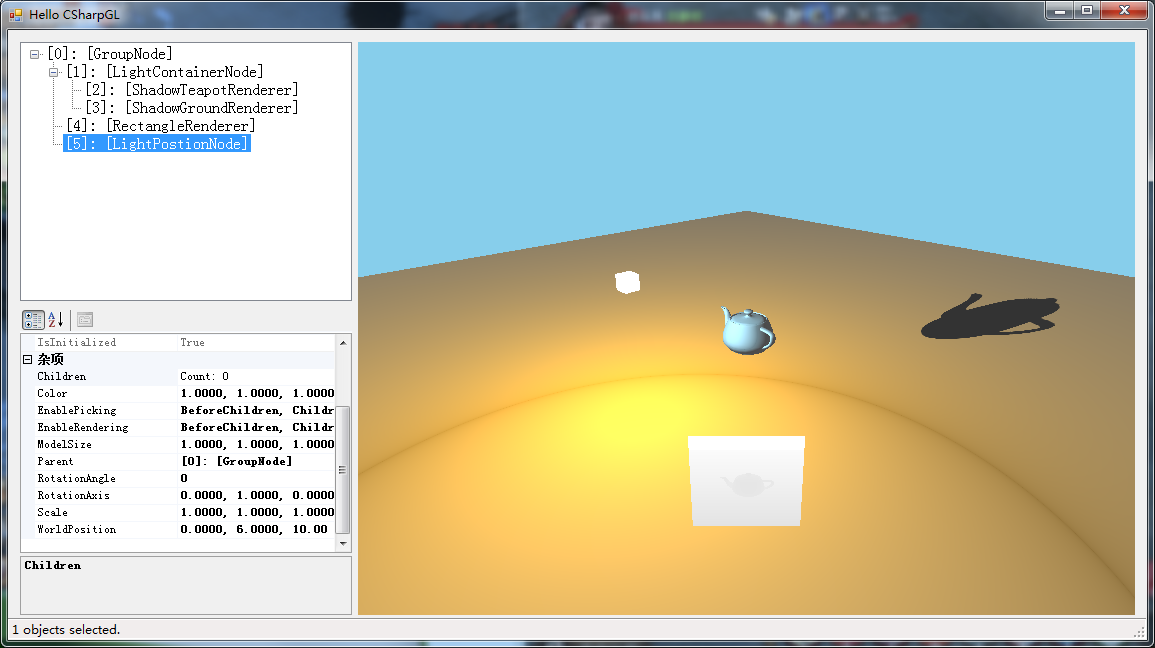
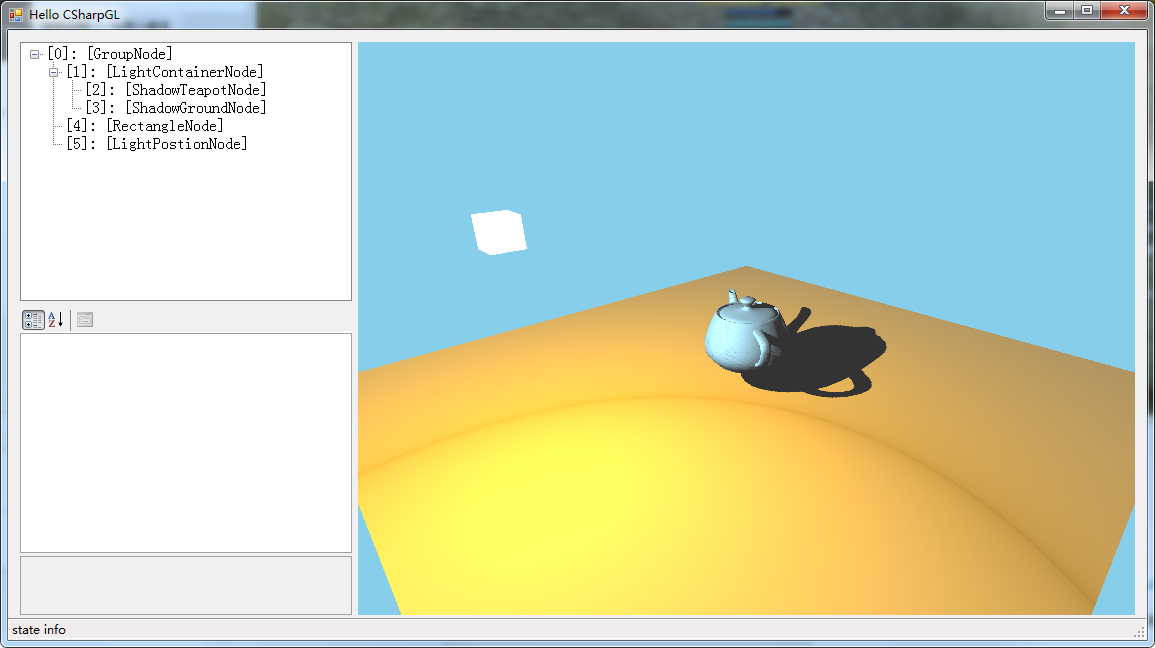
update

diff --git a/Demos/ShadowMapping/FormShadowMapping.cs b/Demos/ShadowMapping/FormShadowMapping.cs
@@ -30,7 +30,7 @@ namespace ShadowMapping
             //var teapot = ShadowMappingRenderer.Create();
             //var rootElement = teapot;
 
-            var position = new vec3(5, 3, 5) * 5;
+            var position = new vec3(5, 3, 5) * 3;
             var center = new vec3(0, 0, 0);
             var up = new vec3(0, 1, 0);
             var camera = new Camera(position, center, up, CameraType.Perspecitive, this.winGLCanvas1.Width, this.winGLCanvas1.Height);
@@ -88,7 +88,7 @@ namespace ShadowMapping
                 }
                 {
                     var ground = ShadowGroundNode.Create();
-                    ground.Scale *= 100;
+                    ground.Scale *= 30;
                     ground.WorldPosition = new vec3(0, -3, 0);
                     lightContainer.Children.Add(ground);
                 }
